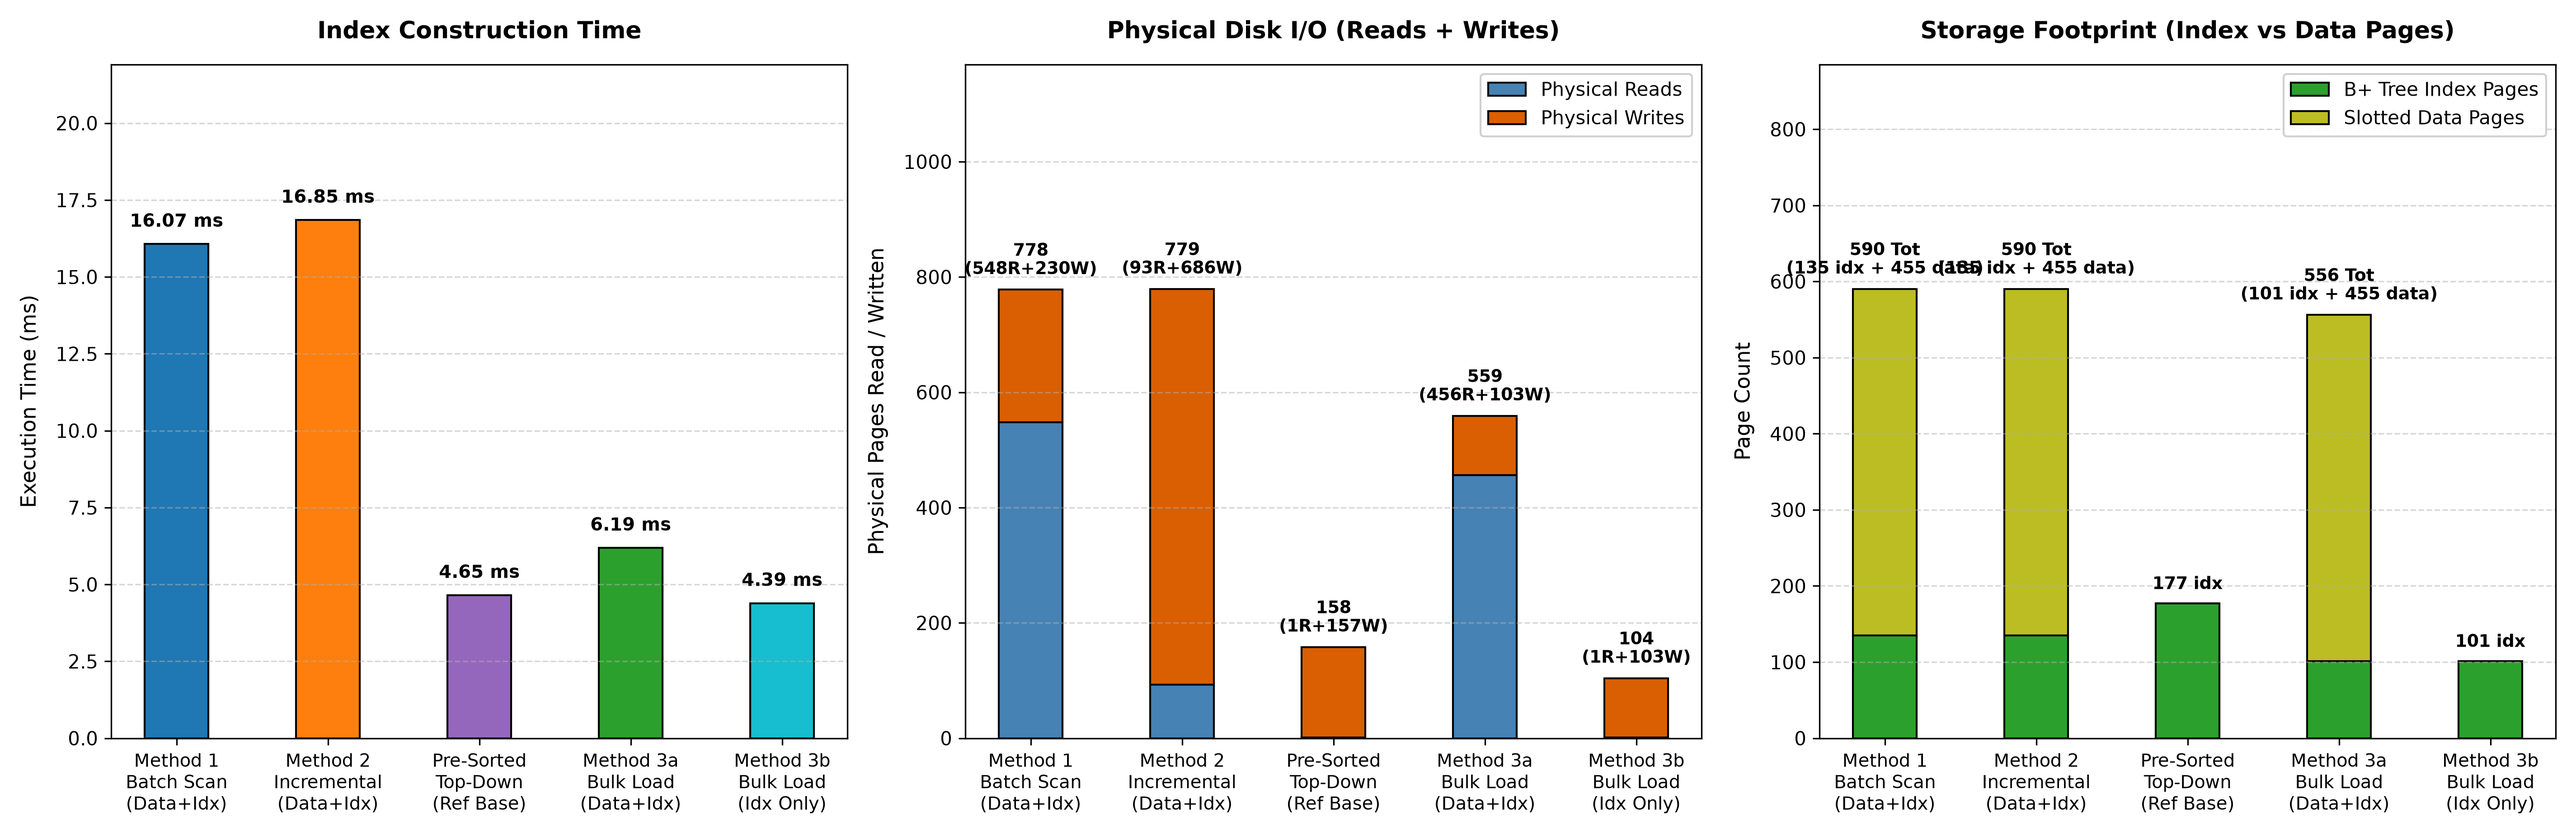
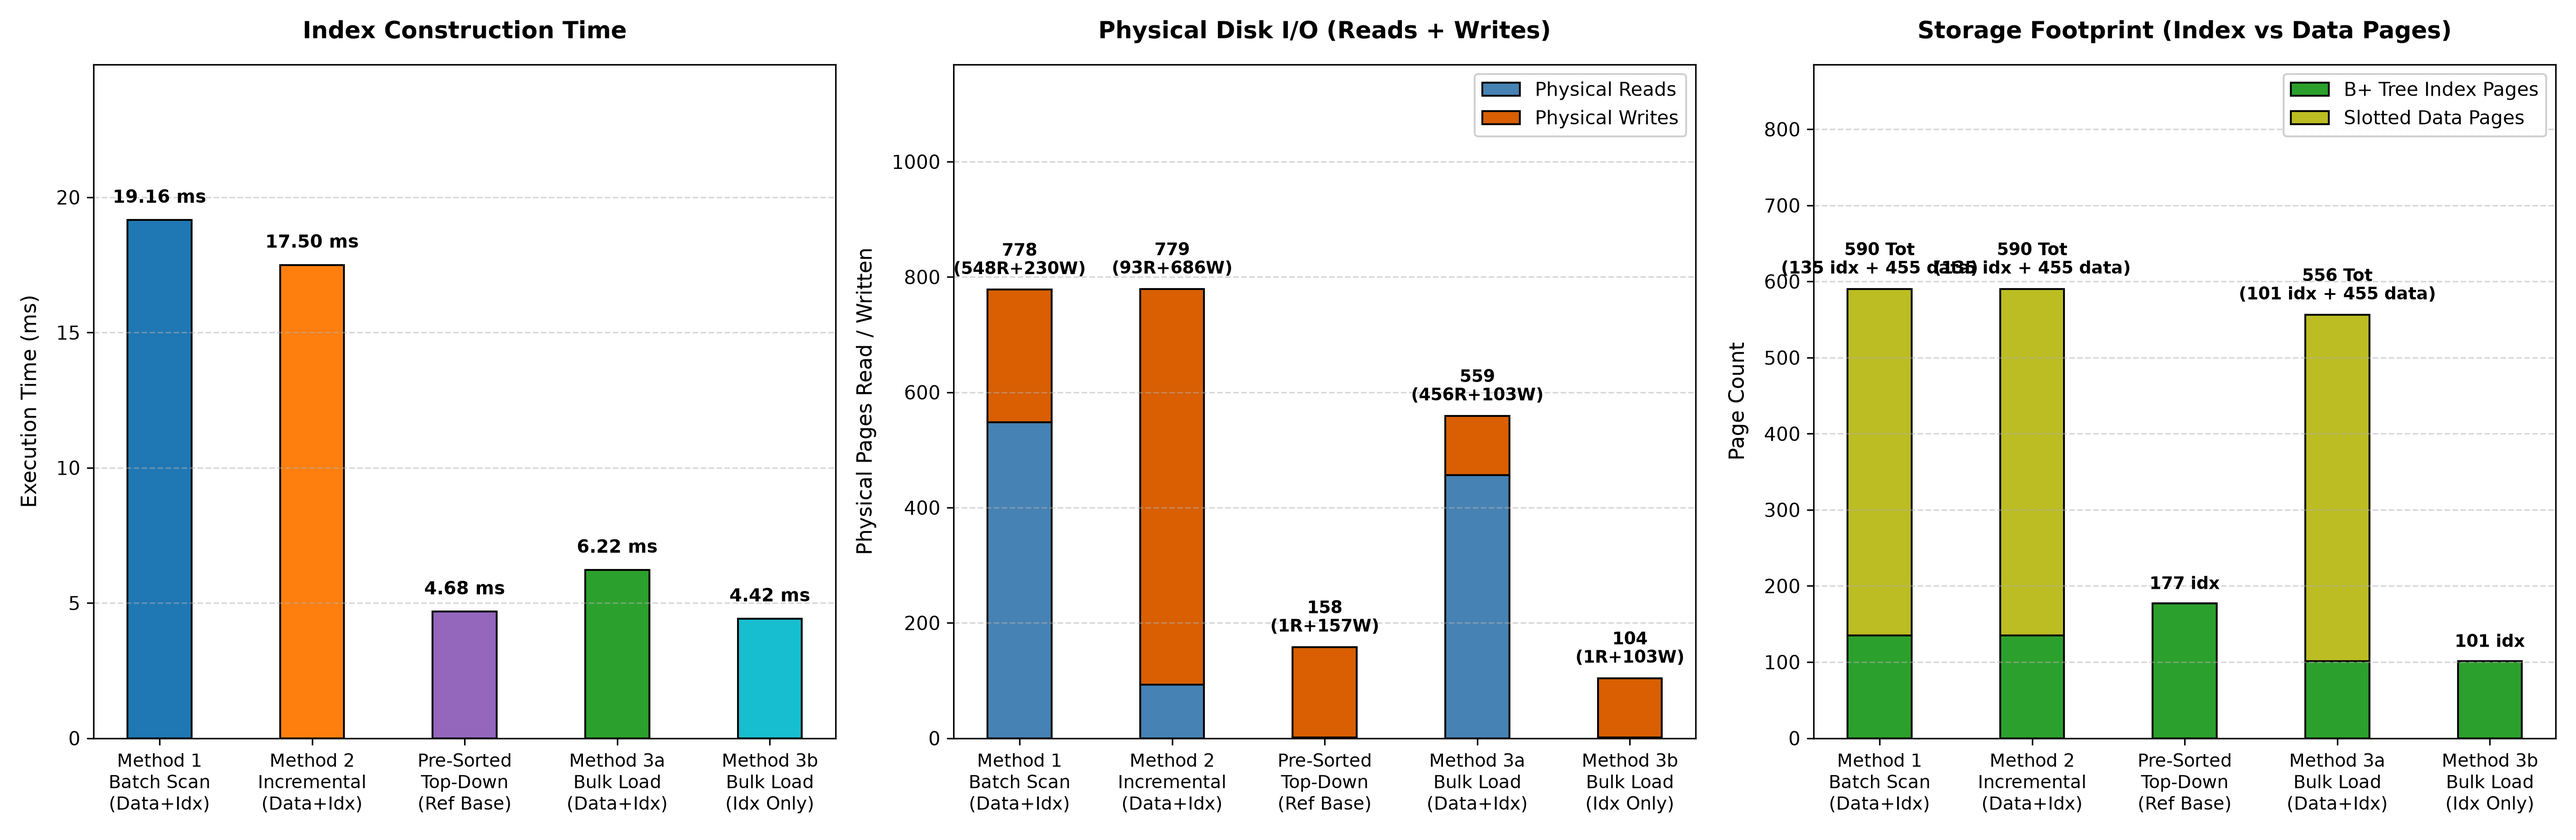
docs(results): synchronize B+ tree indexing benchmarks and update publication plot
- Export synchronized timing and page metrics across all four indexing methods
- Regenerate B+ tree comparison plot with expanded headroom and collision-free legend placement

diff --git a/results/am_indexing_table.md b/results/am_indexing_table.md
@@ -6,11 +6,11 @@
 
 | Indexing Approach | Scope | Build Time (ms) | Physical Reads | Physical Writes | Total Disk I/O | Index Pages | Data Pages | Total Pages | Avg Point Query (us) |
 | :--- | :--- | :--- | :--- | :--- | :--- | :--- | :--- | :--- | :--- |
-| **1. Batch Single-Op Scan** | Scan Existing Data + Build Index | 16.07 | 548 | 230 | 778 | **135** | 455 | 590 | 1.05 |
-| **2. Incremental Interleaved** | Insert Data + Build Index | 16.85 | 93 | 686 | 779 | **135** | 455 | 590 | 0.81 |
-| **Pre-Sorted Top-Down (Reference)** | Sorted Keys + Iterative AM_InsertEntry | 4.65 | 1 | 157 | 158 | **177** | 0 | 177 | 1.01 |
-| **3a. Bottom-Up Bulk Load** | Scan Pre-Sorted File + Build Index | 6.19 | 456 | 103 | 559 | **101** | 455 | **556** | **0.79** |
-| **3b. Bottom-Up Bulk Load** | Index Construction Only | **4.39** | **1** | **103** | **104** | **101** | 0 | **101** | **0.79** |
+| **1. Batch Single-Op Scan** | Scan Existing Data + Build Index | 19.16 | 548 | 230 | 778 | **135** | 455 | 590 | 1.06 |
+| **2. Incremental Interleaved** | Insert Data + Build Index | 17.50 | 93 | 686 | 779 | **135** | 455 | 590 | 0.81 |
+| **Pre-Sorted Top-Down (Reference)** | Sorted Keys + Iterative AM_InsertEntry | 4.68 | 1 | 157 | 158 | **177** | 0 | 177 | 1.05 |
+| **3a. Bottom-Up Bulk Load** | Scan Pre-Sorted File + Build Index | 6.22 | 456 | 103 | 559 | **101** | 455 | **556** | **0.80** |
+| **3b. Bottom-Up Bulk Load** | Index Construction Only | **4.42** | **1** | **103** | **104** | **101** | 0 | **101** | **0.80** |
 
 ## 2. Pure B+ Tree Index Component Breakdown
 
